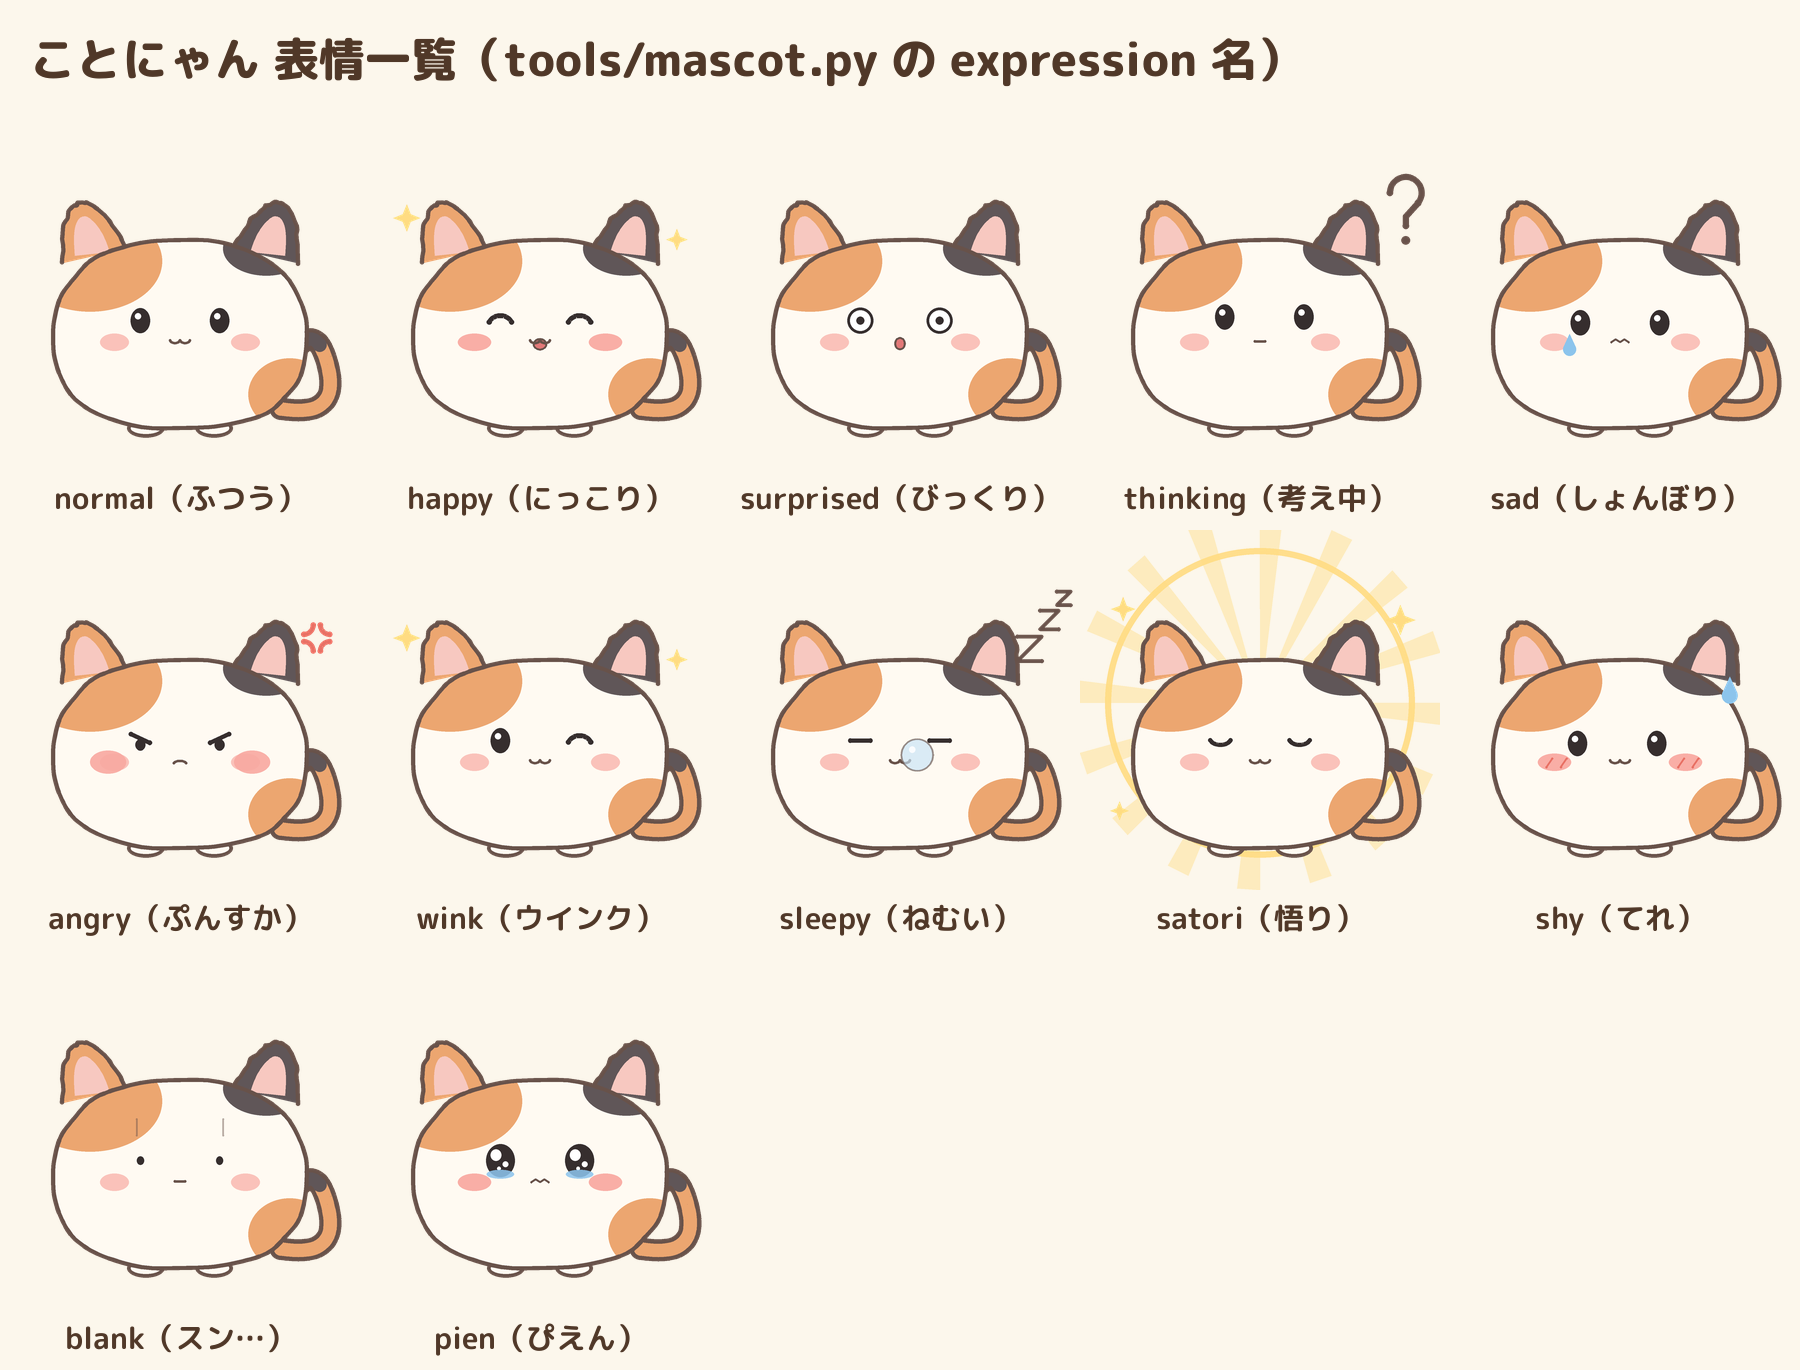
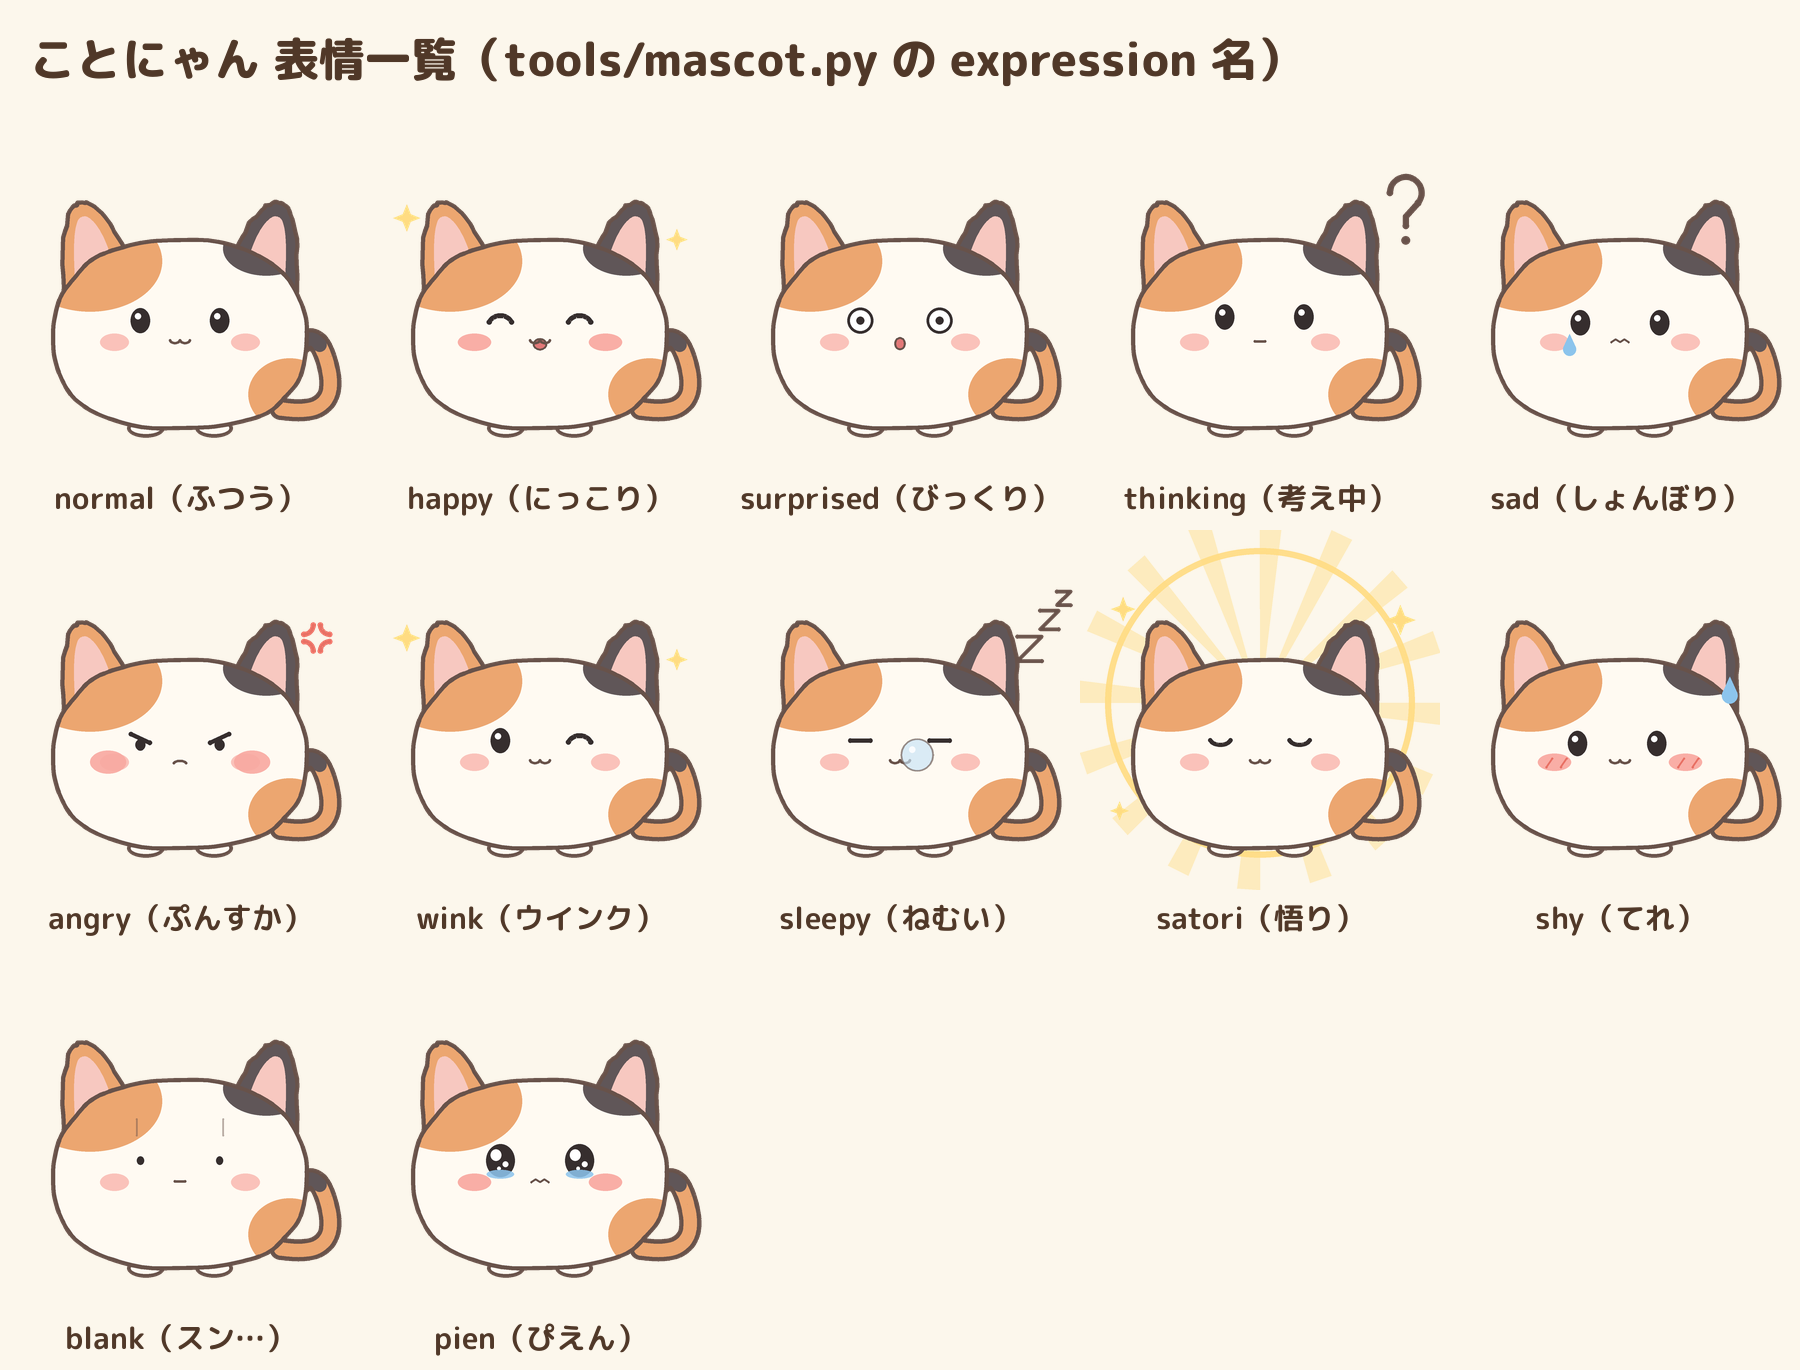
ことにゃん：耳の付け根を頭の中まで伸ばし、耳と頭のすき間をなくす
Claude-Session: https://claude.ai/code/session_01BHfrTmYBwQnHHjxdfJomhn

diff --git a/youtube/tools/mascot.py b/youtube/tools/mascot.py
@@ -135,7 +135,6 @@ RX, RY_TOP, RY_BOT = 350, 255, 270     # 上を低くして、耳と顔を近づ
 EYE_L = (390, 585)
 EYE_R = (610, 585)
 MOUTH = (500, 637)
-EAR_DY = 95                  # 耳を下げる量
 
 
 def _wobble(pts, amp=2.2, seed=0.0):
@@ -174,18 +173,19 @@ def _qbez(p0, p1, p2, n=14):
              (1 - t) ** 2 * p0[1] + 2 * (1 - t) * t * p1[1] + t * t * p2[1]) for t in (i / n for i in range(n + 1))]
 
 
-def _ear_pts(sx, scale=1.0):
+def _ear_pts(sx):
+    """耳の外形。付け根は頭の輪郭より内側まで伸ばし、体で隠す（すき間ができないように）。"""
     X = lambda v: 500 + sx * v  # noqa: E731
-    return (_qbez((X(325), 330 + EAR_DY), (X(335), 200 + EAR_DY), (X(292), 170 + EAR_DY))
-            + _qbez((X(292), 170 + EAR_DY), (X(270), 152 + EAR_DY), (X(240), 172 + EAR_DY))
-            + _qbez((X(240), 172 + EAR_DY), (X(190), 205 + EAR_DY), (X(150), 290 + EAR_DY)))
+    return (_qbez((X(322), 560), (X(338), 300), (X(292), 265))
+            + _qbez((X(292), 265), (X(270), 247), (X(240), 267))
+            + _qbez((X(240), 267), (X(190), 300), (X(130), 440)))
 
 
 def _ear_inner(sx):
     X = lambda v: 500 + sx * v  # noqa: E731
-    return (_qbez((X(292), 310 + EAR_DY), (X(300), 222 + EAR_DY), (X(278), 205 + EAR_DY))
-            + _qbez((X(278), 205 + EAR_DY), (X(262), 194 + EAR_DY), (X(246), 210 + EAR_DY))
-            + _qbez((X(246), 210 + EAR_DY), (X(212), 240 + EAR_DY), (X(196), 300 + EAR_DY)))
+    return (_qbez((X(292), 470), (X(300), 317), (X(278), 300))
+            + _qbez((X(278), 300), (X(262), 289), (X(246), 305))
+            + _qbez((X(246), 305), (X(212), 335), (X(185), 430)))
 
 
 def _tail(pen, c, t_wag=0.0):
